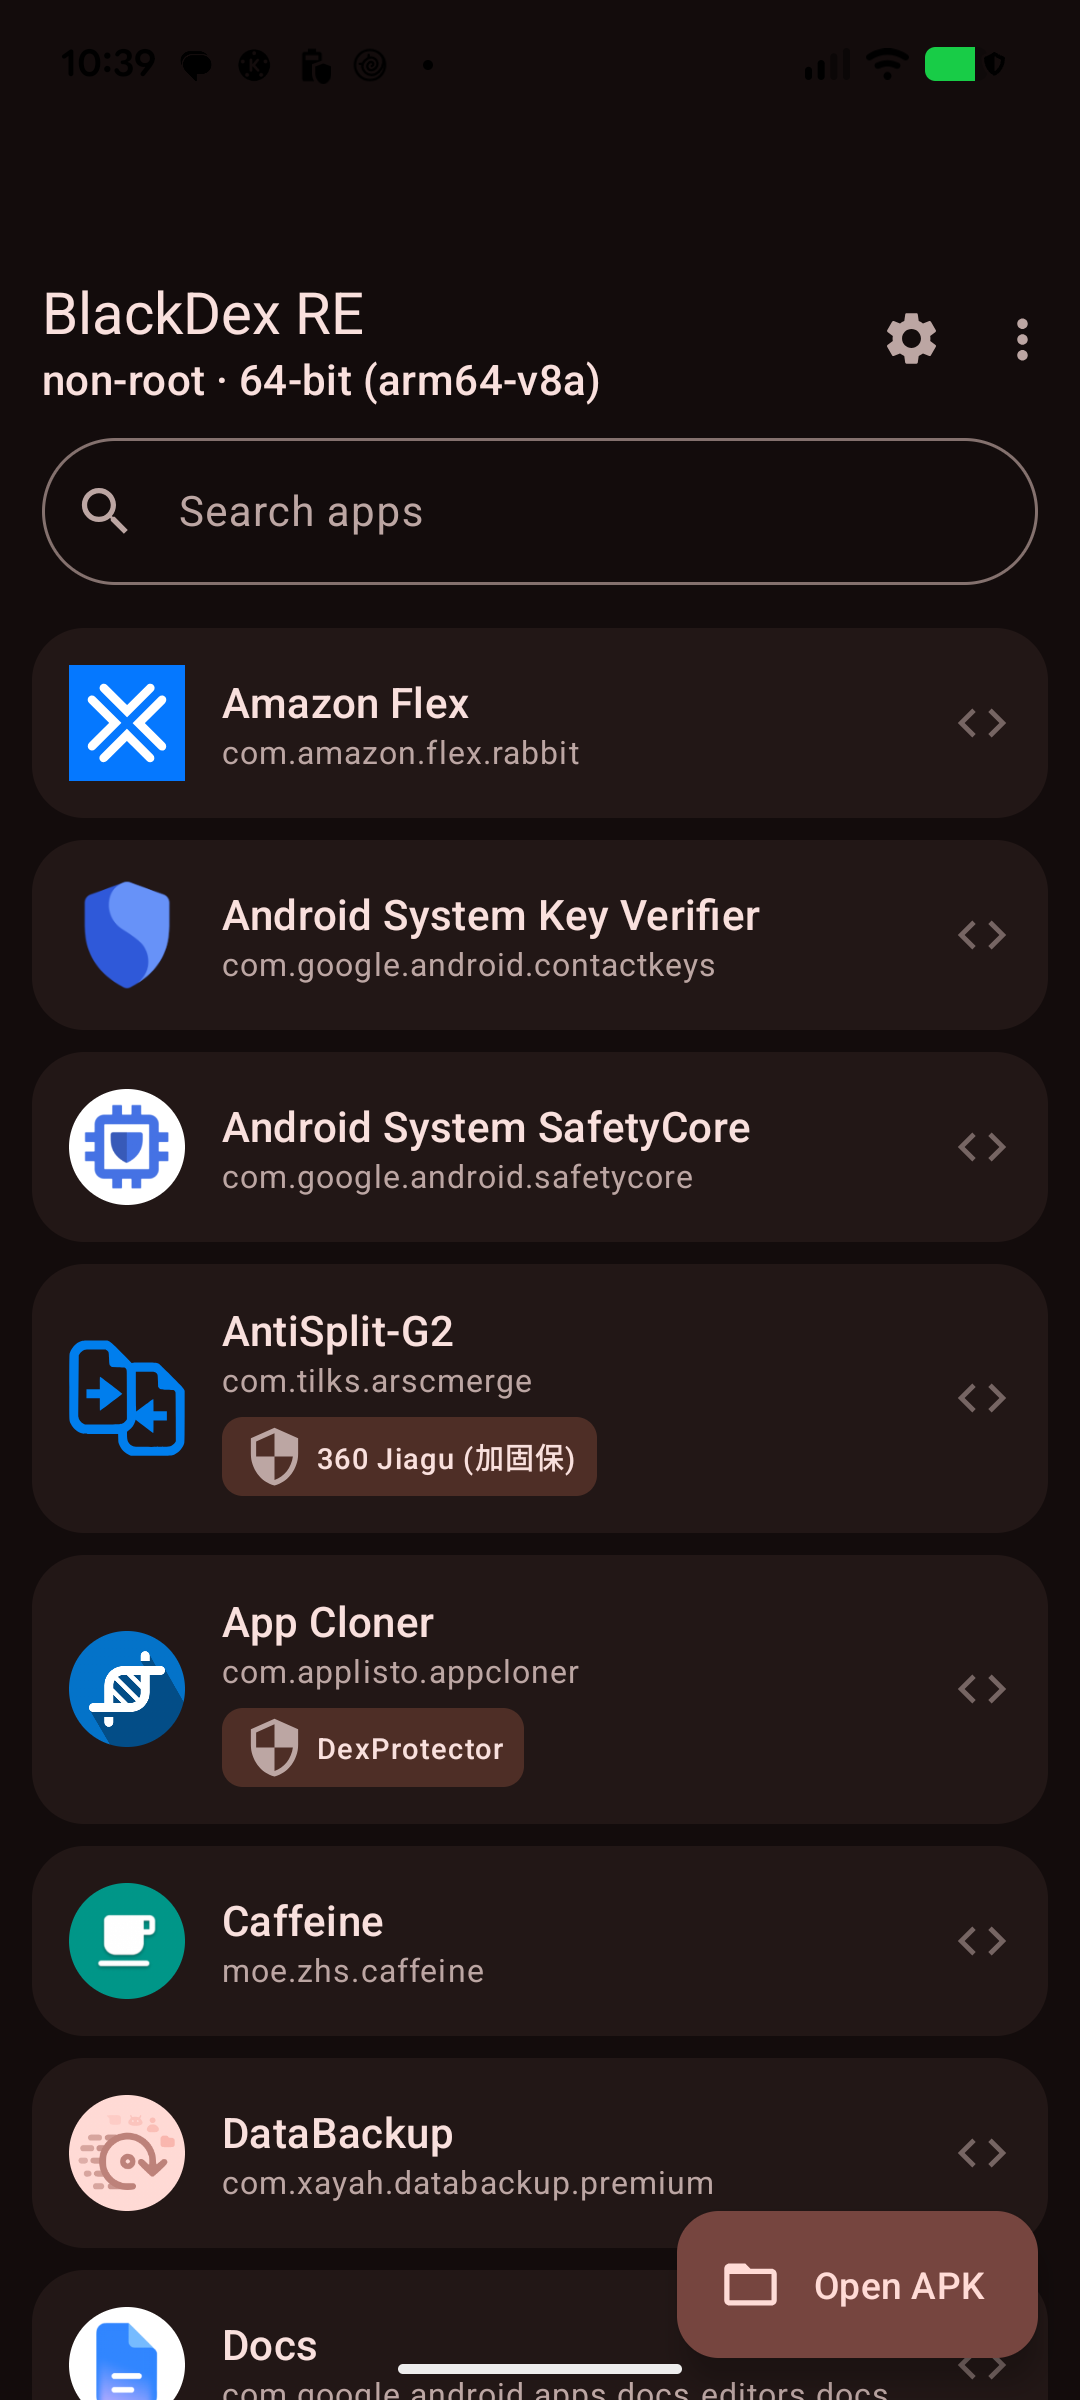
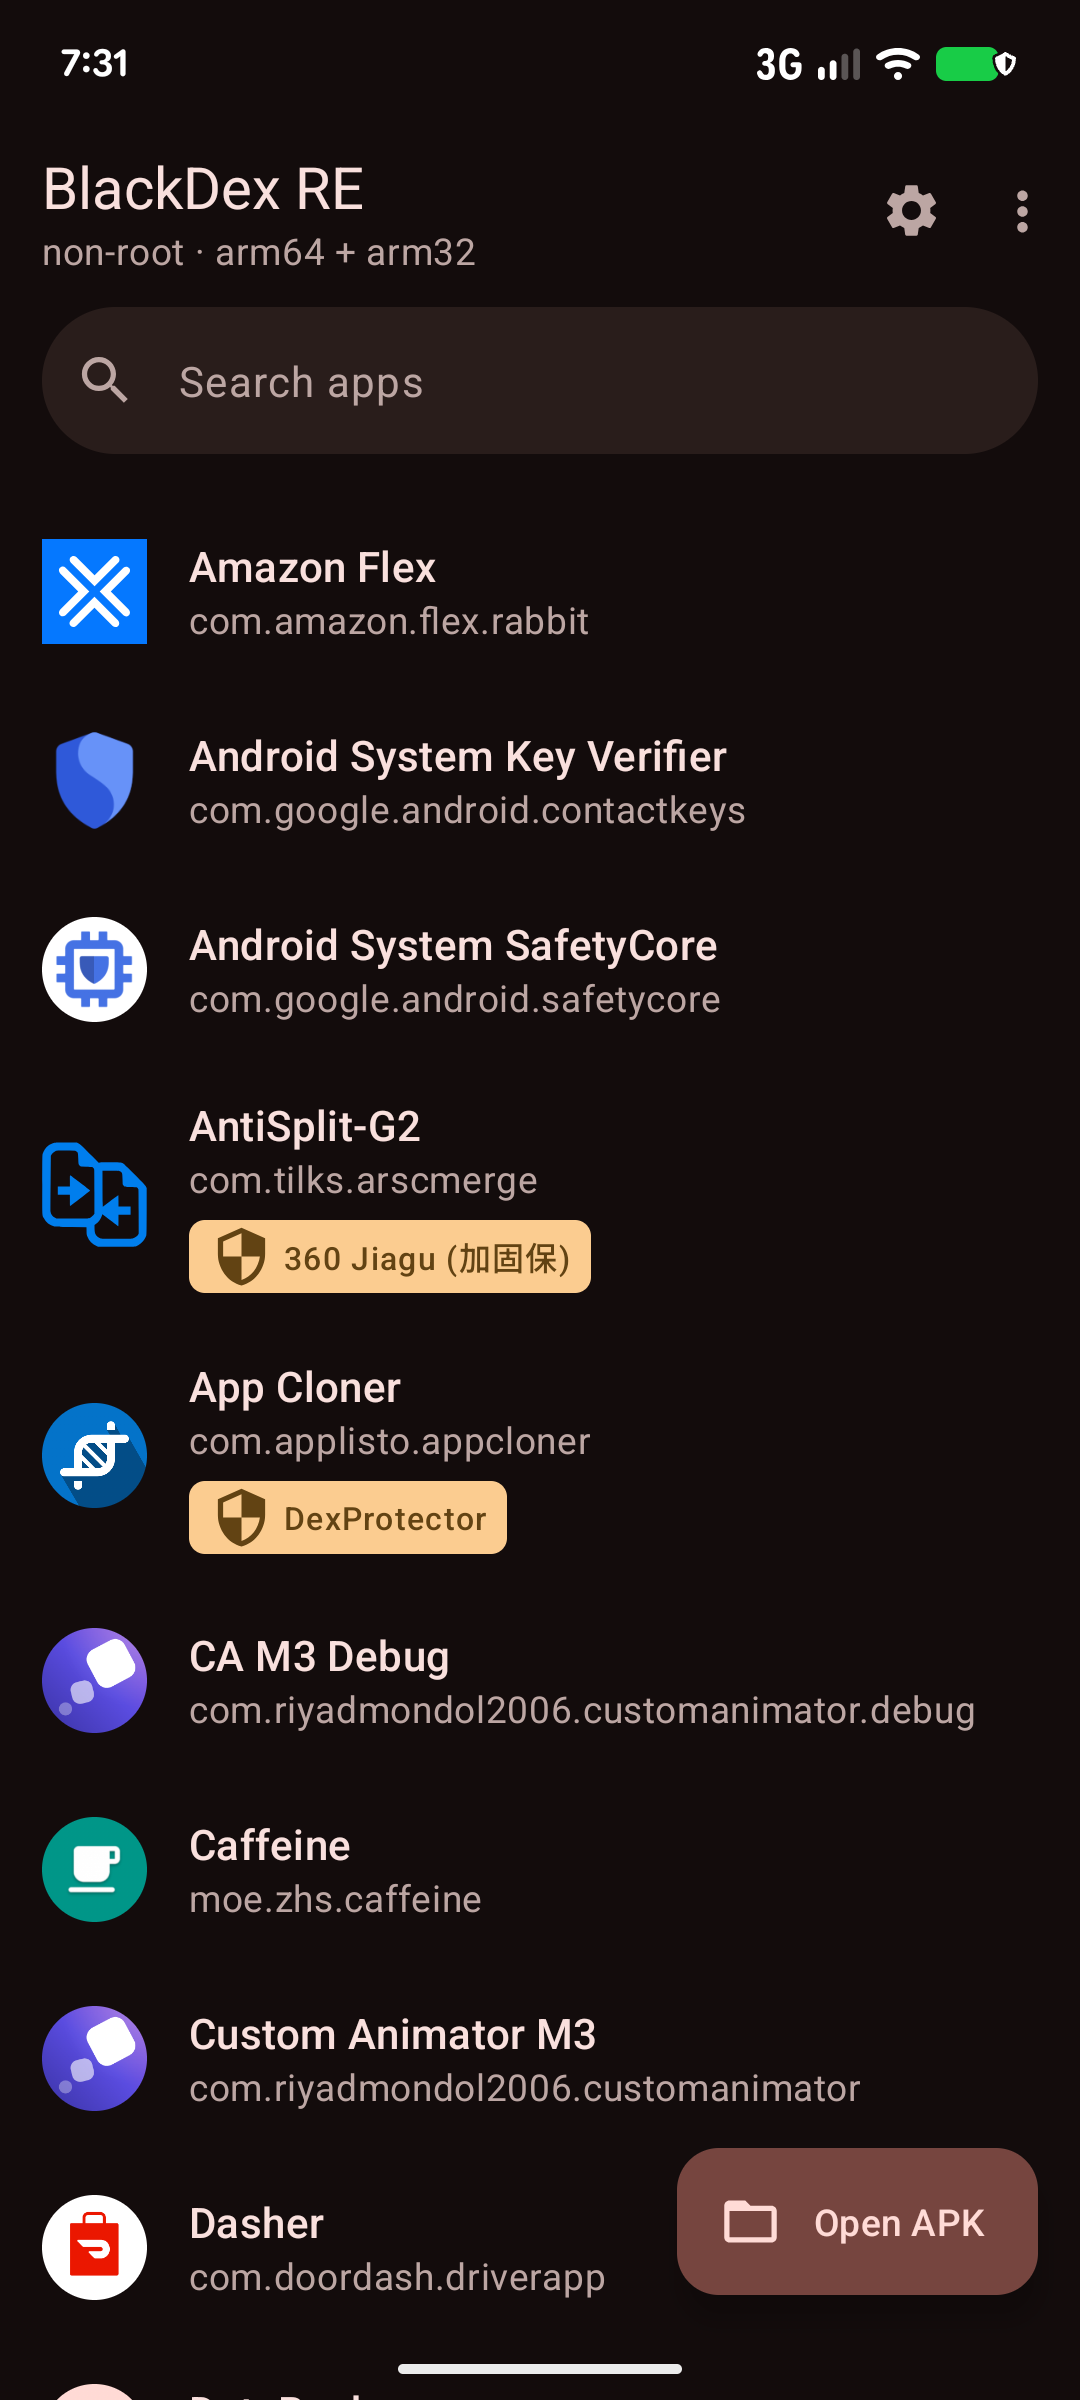
docs: refresh screenshots for v4.1.0-RE [skip ci]

diff --git a/README.md b/README.md
@@ -33,9 +33,11 @@ reverse-engineering quality-of-life features.
 
 ## Screenshots
 
+v4.1.0-RE on a Pixel 6 (Android 17), using the dark theme with dynamic colors.
+
 | App list + protection badges | Packer / VMP detection | Settings (Material You) |
 |---|---|---|
-| <img src="screenshots/main.png" width="240"/> | <img src="screenshots/packer_detection.png" width="240"/> | <img src="screenshots/settings.png" width="240"/> |
+| <img src="screenshots/main.png" width="240" alt="App list with protection badges"/> | <img src="screenshots/packer_detection.png" width="240" alt="Packer detection and VMP warning"/> | <img src="screenshots/settings.png" width="240" alt="Settings with Material 3 switches"/> |
 
 ---
 

diff --git a/README_EN.md b/README_EN.md
@@ -33,9 +33,11 @@ reverse-engineering quality-of-life features.
 
 ## Screenshots
 
+v4.1.0-RE on a Pixel 6 (Android 17), using the dark theme with dynamic colors.
+
 | App list + protection badges | Packer / VMP detection | Settings (Material You) |
 |---|---|---|
-| <img src="screenshots/main.png" width="240"/> | <img src="screenshots/packer_detection.png" width="240"/> | <img src="screenshots/settings.png" width="240"/> |
+| <img src="screenshots/main.png" width="240" alt="App list with protection badges"/> | <img src="screenshots/packer_detection.png" width="240" alt="Packer detection and VMP warning"/> | <img src="screenshots/settings.png" width="240" alt="Settings with Material 3 switches"/> |
 
 ---
 
